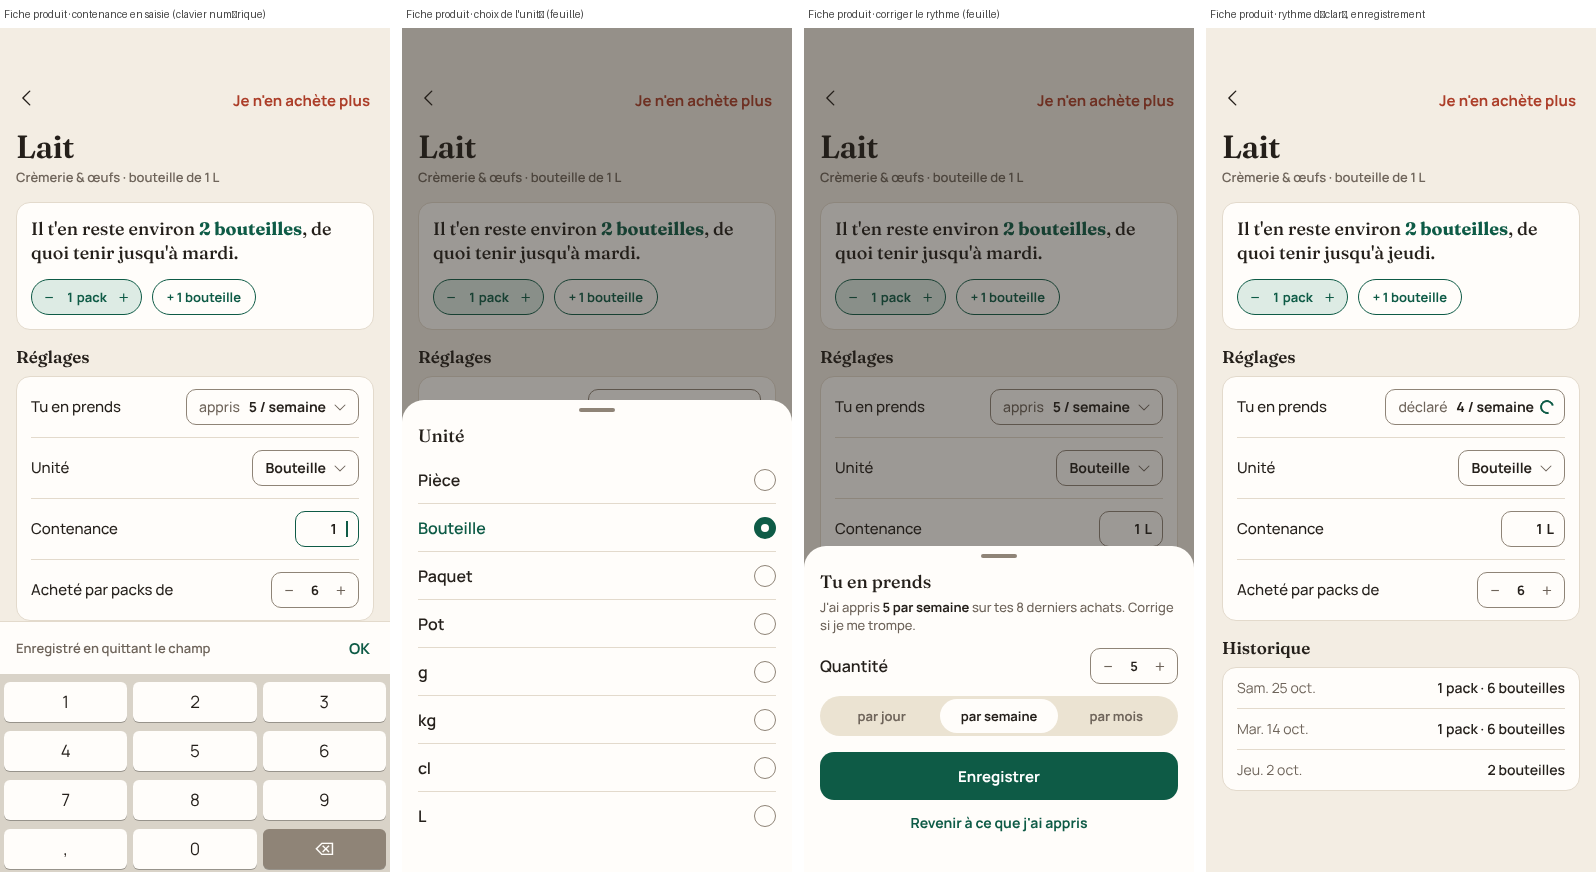
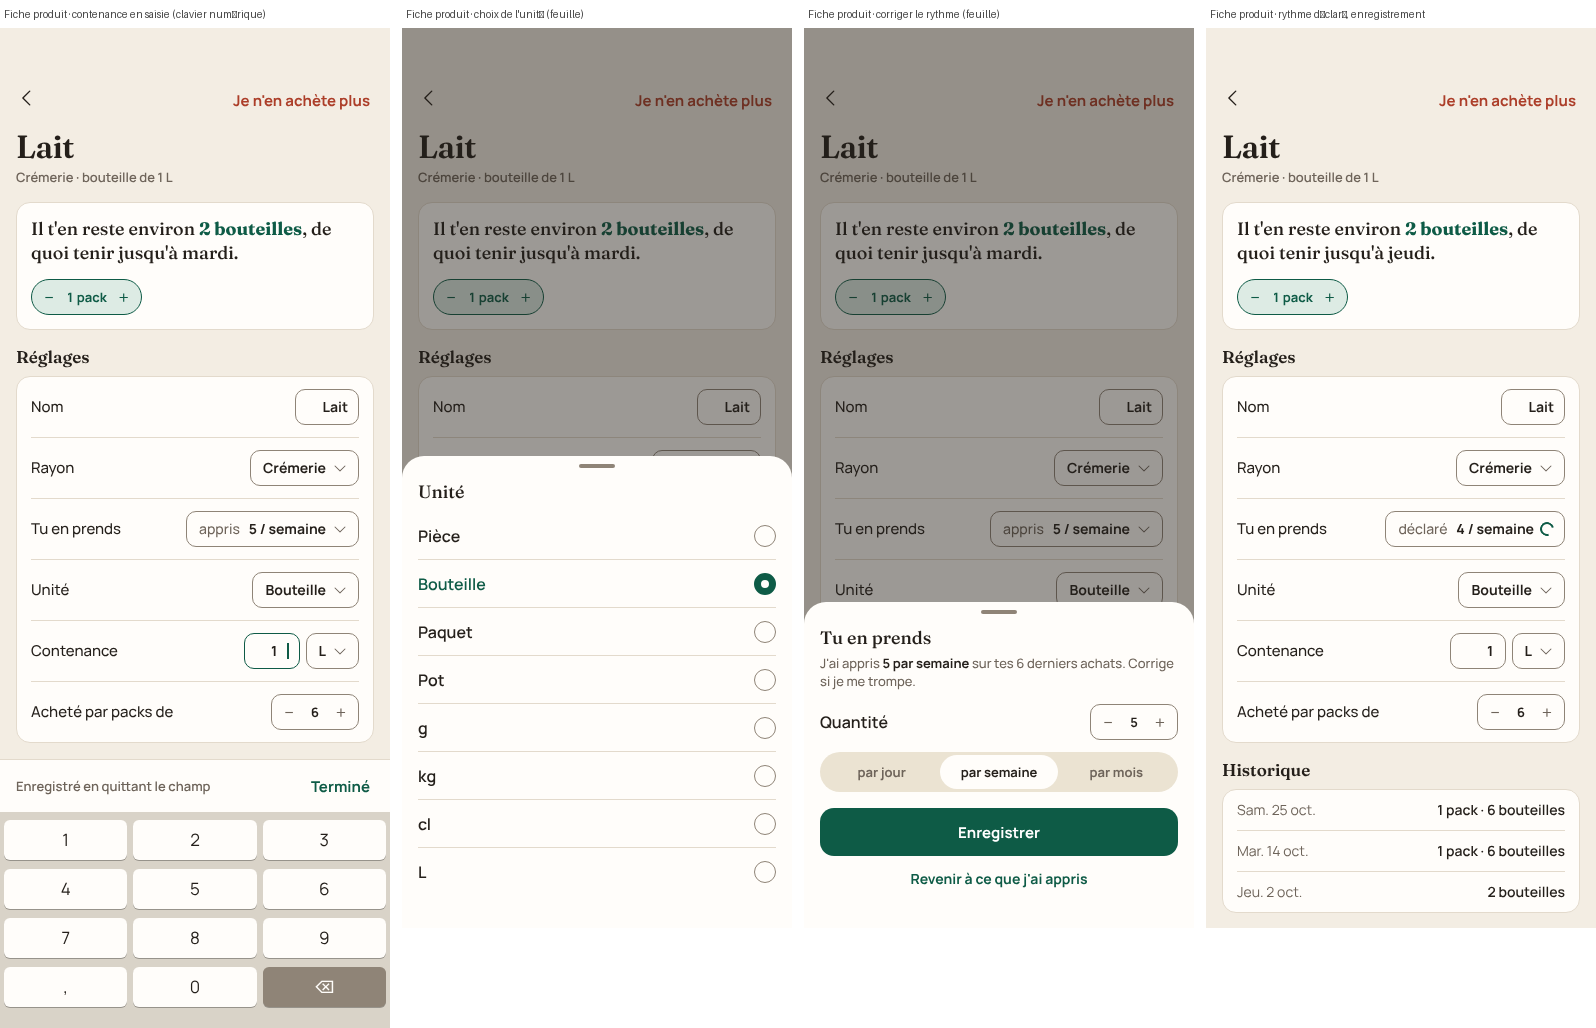
docs(design): take the corrected design system and mockups
Product names in the catalogue toggle, one-hour links, suggestion
reasons with an end date, a single add button on the product sheet,
name and category fields, contents with a unit selector, « Terminé »
instead of « OK », and the eleven categories of the specs.

diff --git a/docs/design/design-system.md b/docs/design/design-system.md
@@ -32,7 +32,7 @@ Deux familles, hébergées par Google Fonts (Expo : `@expo-google-fonts/fraunces
 - **Fraunces, droit, jamais en italique.** Deux graisses : 600 pour les titres (`title-screen` 28, `title-hero` 32, `title-section` 17, nom de recette sur carte 20) ; 500 pour les phrases en langage courant (`sentence` : l'estimation à 18, « Comme d'hab chef ? » à 24). En dessous de 18 px, Fraunces est interdite.
 - **Manrope** pour tout le reste : `body` 16/500 (champs), `body-strong` 16/600 (nom d'un produit), `body-sm` 14/500, `label` 13/600, `caption` 12/600, `tab` 11/600, `button` 15/700, `button-sm` 13/700.
 
-Les tailles sont celles des maquettes ; on ne les augmente pas. Dynamic Type iOS est respecté : aucune hauteur de ligne n'est figée dans les composants, les contrôles grandissent avec leur texte. Chiffres tabulaires (`tabular-nums`) partout où des quantités s'alignent.
+Les tailles sont celles des maquettes ; on ne les augmente pas. Les hauteurs de ligne de `tokens.json` sont des valeurs de base à la taille système par défaut : Dynamic Type iOS est respecté, les composants n'imposent aucune hauteur en pixels et grandissent avec leur texte. Chiffres tabulaires (`tabular-nums`) partout où des quantités s'alignent.
 
 ## Espacement, formes, bordures
 
@@ -78,10 +78,11 @@ Pas de toast pour un geste dont le résultat est visible sous le doigt. Un toast
 Où il y a des icônes, et où il n'y en a pas :
 - **Onglets** : `ListChecks`, `Basket`, `ChefHat`, `Sliders`.
 - **Utilitaires** : `MagnifyingGlass` (recherche), `Check` en *bold* (coche), `CaretLeft` / `CaretRight` (navigation), `Plus`, `X`, `WifiSlash`.
-- **Rayons** : un jeu fermé de 17 icônes, une par rayon, devant chaque en-tête de section de la liste et de l'annuaire (voir le composant Icons). On n'en ajoute pas sans ajouter un rayon.
+- **Rayons** : un jeu fermé, une icône par rayon par défaut des specs techniques (7.4) plus « À classer », devant chaque en-tête de section de la liste et de l'annuaire (voir le composant Icons). On n'en ajoute pas sans ajouter un rayon.
 - **Recette** : `ChefHat` est le seul signe récurrent de la marque ; il marque une recette partout (onglet, pastille, résultat de recherche).
 - **États vides** : une icône du jeu ci-dessus à 40 px en `ink-muted` au-dessus du titre, facultative.
 - **Jamais** : sur une ligne de produit, dans un titre, sur une carte recette, en décoration. Pas d'emoji, pas d'illustration.
+- **Apple** : le bouton « Continuer avec Apple » n'est affiché qu'en natif (iOS/Android), jamais sur la PWA.
 
 En magasin on scanne des noms ; les icônes servent au repérage des groupes, pas à décorer les lignes.
 
@@ -91,7 +92,7 @@ Pas de logo dessiné à ce stade : le nom en Fraunces 600 fait office de marque 
 
 ## Pour le code
 
-`tokens.json` est la source des valeurs : il alimente `tailwind.config` de NativeWind (couleurs par thème, `fontFamily`, `spacing`, `borderRadius`) et `docs/design-system.md` dans le dépôt. Les aperçus de composants sont en HTML/CSS et servent de référence visuelle, pas de code à copier : les composants React Native reprennent les mêmes noms d'états (`pressed`, `disabled`, `loading`, `pending`, `highlight`, `checked`, `complete`, `selected`).
+`tokens.json` est la source des valeurs : il alimente `tailwind.config` de NativeWind (couleurs par thème, `fontFamily`, `spacing`, `borderRadius`). Dans le dépôt, le design system vit dans `docs/design/` (`design-system.md`, `components.md`, `tokens.json`). Les aperçus de composants sont en HTML/CSS et servent de référence visuelle, pas de code à copier : les composants React Native reprennent les mêmes noms d'états (`pressed`, `disabled`, `loading`, `pending`, `highlight`, `checked`, `complete`, `selected`).
 
 
 # Voix
@@ -117,9 +118,9 @@ Ces textes sont ceux de l'app ; un nouveau texte doit pouvoir se glisser parmi e
 | Contexte | Texte |
 | --- | --- |
 | Titre des suggestions | Comme d'hab chef ? |
-| Justification d'une suggestion | Tu en prends 5 par semaine, il doit t'en rester 1 |
-| Justification d'une suggestion | D'habitude tu en reprends tous les 12 jours |
-| Justification d'une suggestion | Le dernier pack date de 9 jours |
+| Justification d'une suggestion | Il doit t'en rester 1, de quoi tenir jusqu'à mardi |
+| Justification d'une suggestion | D'habitude tu en reprends tous les 12 jours, ça fait 11 |
+| Justification d'une suggestion | Le dernier pack date de 9 jours, il doit être fini |
 | Estimation, rythme connu | Il t'en reste environ 2 bouteilles, de quoi tenir jusqu'à mardi. |
 | Estimation, probablement fini | Probablement fini : le dernier pack date de 3 semaines. |
 | Estimation, rien à dire | Je ne sais pas encore : dis-moi quand tu en reprends, j'apprendrai. |
@@ -137,9 +138,9 @@ Ces textes sont ceux de l'app ; un nouveau texte doit pouvoir se glisser parmi e
 | Toast, erreur d'écriture | Pas enregistré — Réessayer |
 | Bandeau hors ligne | Hors ligne · tes modifications seront envoyées plus tard |
 | Erreur de chargement | Impossible de charger tes produits. Réessaie, et si ça continue, dis-le nous depuis les Réglages. |
-| Réglage | Aider à améliorer le catalogue — Rythmes d'achat partagés, anonymes et agrégés |
+| Réglage | Aider à améliorer le catalogue — Noms de produits partagés, anonymes et agrégés |
 | Champ de rythme | Tu en prends · appris · 5 / semaine |
-| Erreur de champ | Un chiffre, en L ou en cl |
+| Erreur de champ | Un chiffre |
 
 ## À ne pas écrire
 
@@ -147,4 +148,5 @@ Ces textes sont ceux de l'app ; un nouveau texte doit pouvoir se glisser parmi e
 - « Félicitations, votre liste est terminée ! »
 - « Êtes-vous sûr de vouloir supprimer cet élément ? » → un bouton « Supprimer la recette » en `alert` dans une feuille suffit ; le libellé est la question.
 - « Chargement en cours… » → un squelette.
+- « OK » sur la barre du clavier → « Terminé », le libellé système.
 - « Aucun résultat. » → la ligne « Créer « … » » est la réponse.

diff --git a/docs/design/components.md b/docs/design/components.md
@@ -52,7 +52,7 @@ Jamais de pourcentage, jamais de « stock », jamais de date brute : un jour de 
 
 Le jeu d'icônes de l'app : Phosphor, importé tel quel depuis `@phosphor-icons/core` (ici) et `phosphor-react-native` (dans l'app). Deux graisses : *regular* partout, *fill* pour l'onglet actif, *bold* pour la coche seulement.
 
-Trois familles d'usage, et rien d'autre : les onglets, les utilitaires, et le jeu fermé des rayons (17, un par rayon du catalogue). Une icône de rayon s'affiche à 22 px dans l'annuaire Produits et à 14 px devant un en-tête de section de la liste, toujours en `currentColor` de son texte.
+Trois familles d'usage, et rien d'autre : les onglets, les utilitaires, et le jeu fermé des rayons (les 11 rayons par défaut des specs techniques 7.4, plus « À classer »). Une icône de rayon s'affiche à 22 px dans l'annuaire Produits et à 14 px devant un en-tête de section de la liste, toujours en `currentColor` de son texte.
 
 Ajouter une icône = ajouter un rayon ou un geste ; on ne met jamais d'icône sur une ligne de produit, un titre ou une carte recette. Les noms des rayons doivent rester alignés sur la liste des rayons des spécifications.
 
@@ -137,10 +137,10 @@ Les champs de réglage d'une fiche produit, des Réglages de l'app et des ingré
 Trois formes, trois interactions :
 
 1. **Sélecteur** (Unité, Rayon, « Tu en prends ») : chevron `CaretDown` à droite. Tap → une feuille monte avec la liste des options (bouton radio, option courante en `action`). Choisir ferme la feuille et enregistre. Pour le rythme, la feuille porte un stepper de quantité, un segment jour / semaine / mois, « Enregistrer » et « Revenir à ce que j'ai appris » quand la valeur est déclarée.
-2. **Saisie numérique** (Contenance, quantité d'ingrédient) : chiffres tabulaires alignés à droite. Tap → le rectangle passe en bordure `action` 1,5 px avec curseur, clavier numérique, barre « OK » au-dessus du clavier. Enregistré en quittant le champ ; erreur en `caption` `alert` sous le libellé, bordure `alert`, valeur conservée.
+2. **Saisie numérique** (Contenance, quantité d'ingrédient) : chiffres tabulaires alignés à droite, toujours accolée à un sélecteur d'unité (cl / L / g / kg) quand la valeur en a une. Tap → le rectangle passe en bordure `action` 1,5 px avec curseur, clavier numérique, barre « Terminé » au-dessus du clavier (le libellé système, jamais « OK »). Enregistré en quittant le champ ; erreur en `caption` `alert` sous le libellé, bordure `alert`, valeur conservée.
 3. **Stepper de valeur** (Acheté par packs de, quantité dans la feuille du rythme ; la feuille du rythme porte aussi un segment jour / semaine / mois, capsule `surface-2` avec l'option active en `surface`) : même mécanique que le stepper d'ajout, mais en **variante champ** : rectangle `radius-field`, fond `surface`, bordure `line-strong`, texte `ink`, − et + en `ink-muted`. Le vert `action` sur un stepper veut toujours dire « sur la liste » ; un réglage n'y a pas droit.
 
-Le rythme porte un indice `appris` / `déclaré` / `à définir` en `ink-muted` devant la valeur : le moteur dit d'où vient le chiffre. Pendant l'enregistrement, un spinner `action` remplace le chevron ; jamais de bouton « Valider ». Désactivé (produit archivé) : toute la ligne à 0,45, pas de chevron. Toute la ligne est tapable, pas seulement le rectangle.
+En tête de la section : le **nom** (saisie texte) et le **rayon** (sélecteur). Le rythme porte un indice `appris` / `déclaré` / `à définir` en `ink-muted` devant la valeur : le moteur dit d'où vient le chiffre. Pendant l'enregistrement, un spinner `action` remplace le chevron ; jamais de bouton « Valider ». Désactivé (produit archivé) : toute la ligne à 0,45, pas de chevron. Toute la ligne est tapable, pas seulement le rectangle.
 
 ## States
 
